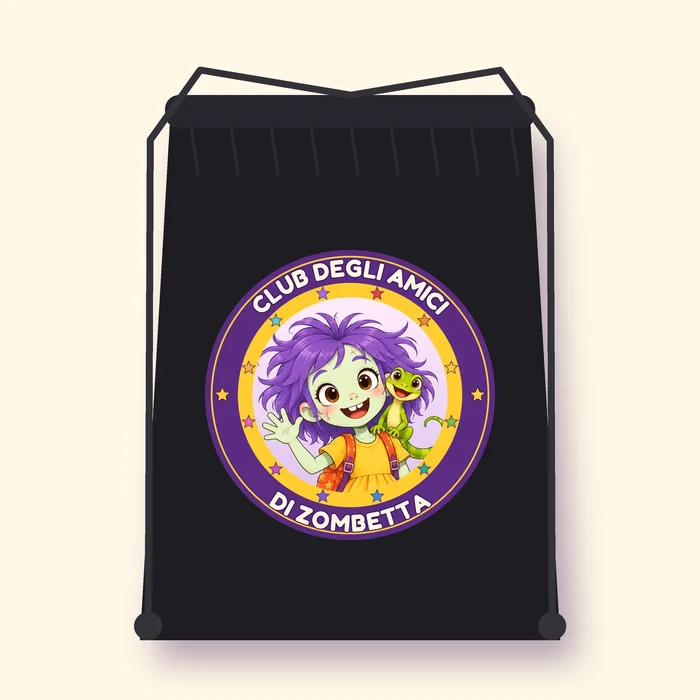
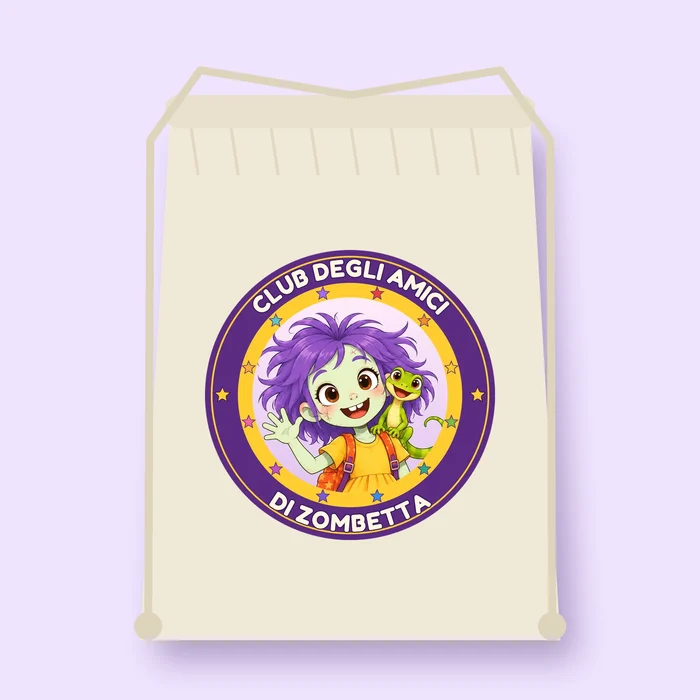
Sacca zainetto color naturale
Claude-Session: https://claude.ai/code/session_0113DBtMgsdUefbPDdn7T8Pa

diff --git a/negozio.html b/negozio.html
@@ -37,7 +37,7 @@
 </div></section>
 <section class="sez" style="padding-top:30px"><div class="wrap">
   <div class="griglia g3">
-    <article class="card prodotto"><div class="foto"><img src="img/club.webp" alt="Maglietta del Club" loading="lazy"></div><div class="corpo"><span class="etichetta presto">Prenotabile</span><h3>Maglietta del Club</h3><p>Davanti il bollino del <b>Club degli amici di Zombetta</b>, sul lato del cuore. Dietro a scelta le tappe del <b>giro del mondo</b> oppure <b>Zombetta e Geko</b>. 100% cotone, 2–10 anni, in bianco, celeste, rosa e giallo.</p></div></article><article class="card prodotto"><div class="foto"><img src="img/giro-retro.webp" alt="Il retro "giro del mondo"" loading="lazy"></div><div class="corpo"><span class="etichetta presto">Prenotabile</span><h3>Il retro "giro del mondo"</h3><p>Come una vera maglietta da tour: Borgoquieto, Venezia, Tokyo e Roma, ogni città un timbro, ogni timbro un libro.</p></div></article><article class="card prodotto"><div class="foto"><img src="img/sacca.webp" alt="La sacca del Club" loading="lazy"></div><div class="corpo"><span class="etichetta presto">Prenotabile</span><h3>La sacca del Club</h3><p>La sacca zainetto <b>nera</b> in cotone, con i cordini, per la scuola, la palestra o il viaggio, con il bollino del <b>Club degli amici di Zombetta</b>. <span style="font-size:.85em;opacity:.75">(Immagine indicativa)</span></p></div></article>
+    <article class="card prodotto"><div class="foto"><img src="img/club.webp" alt="Maglietta del Club" loading="lazy"></div><div class="corpo"><span class="etichetta presto">Prenotabile</span><h3>Maglietta del Club</h3><p>Davanti il bollino del <b>Club degli amici di Zombetta</b>, sul lato del cuore. Dietro a scelta le tappe del <b>giro del mondo</b> oppure <b>Zombetta e Geko</b>. 100% cotone, 2–10 anni, in bianco, celeste, rosa e giallo.</p></div></article><article class="card prodotto"><div class="foto"><img src="img/giro-retro.webp" alt="Il retro "giro del mondo"" loading="lazy"></div><div class="corpo"><span class="etichetta presto">Prenotabile</span><h3>Il retro "giro del mondo"</h3><p>Come una vera maglietta da tour: Borgoquieto, Venezia, Tokyo e Roma, ogni città un timbro, ogni timbro un libro.</p></div></article><article class="card prodotto"><div class="foto"><img src="img/sacca.webp" alt="La sacca del Club" loading="lazy"></div><div class="corpo"><span class="etichetta presto">Prenotabile</span><h3>La sacca del Club</h3><p>La sacca zainetto in cotone <b>color naturale</b>, con i cordini, per la scuola, la palestra o il viaggio, con il bollino del <b>Club degli amici di Zombetta</b>. <span style="font-size:.85em;opacity:.75">(Immagine indicativa)</span></p></div></article>
   </div>
   <img src="img/magliette-colori.webp" alt="Le magliette nei quattro colori, con il bollino sul cuore" loading="lazy" style="max-width:720px;margin:40px auto 0;border-radius:18px">
 </div></section>

diff --git a/_genera_pagine.py b/_genera_pagine.py
@@ -457,7 +457,7 @@ if not NEGOZIO_ATTIVO:
     prodotti = [
         ('club.webp', 'Maglietta del Club', 'Davanti il bollino del <b>Club degli amici di Zombetta</b>, sul lato del cuore. Dietro a scelta le tappe del <b>giro del mondo</b> oppure <b>Zombetta e Geko</b>. 100% cotone, 2–10 anni, in bianco, celeste, rosa e giallo.'),
         ('giro-retro.webp', 'Il retro "giro del mondo"', 'Come una vera maglietta da tour: Borgoquieto, Venezia, Tokyo e Roma, ogni città un timbro, ogni timbro un libro.'),
-        ('sacca.webp', 'La sacca del Club', 'La sacca zainetto <b>nera</b> in cotone, con i cordini, per la scuola, la palestra o il viaggio, con il bollino del <b>Club degli amici di Zombetta</b>. <span style="font-size:.85em;opacity:.75">(Immagine indicativa)</span>'),
+        ('sacca.webp', 'La sacca del Club', 'La sacca zainetto in cotone <b>color naturale</b>, con i cordini, per la scuola, la palestra o il viaggio, con il bollino del <b>Club degli amici di Zombetta</b>. <span style="font-size:.85em;opacity:.75">(Immagine indicativa)</span>'),
     ]
     oggetto = 'Prenotazione magliette e sacche Zombetta e Geko'
     corpo = 'Ciao! Vorrei prenotare:%0A- maglietta / sacca:%0A- colore:%0A- taglia (2-4-6-8-10 anni):%0A- retro (giro del mondo / Zombetta e Geko):%0A- quantità:%0ACittà:%0A'
